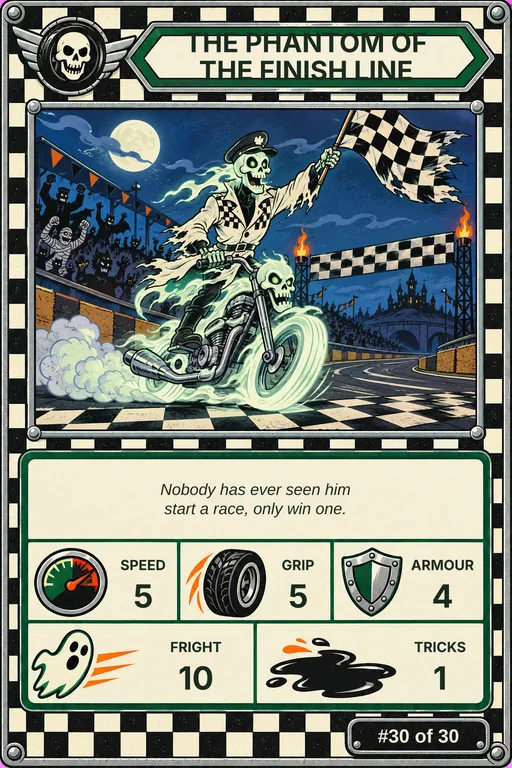
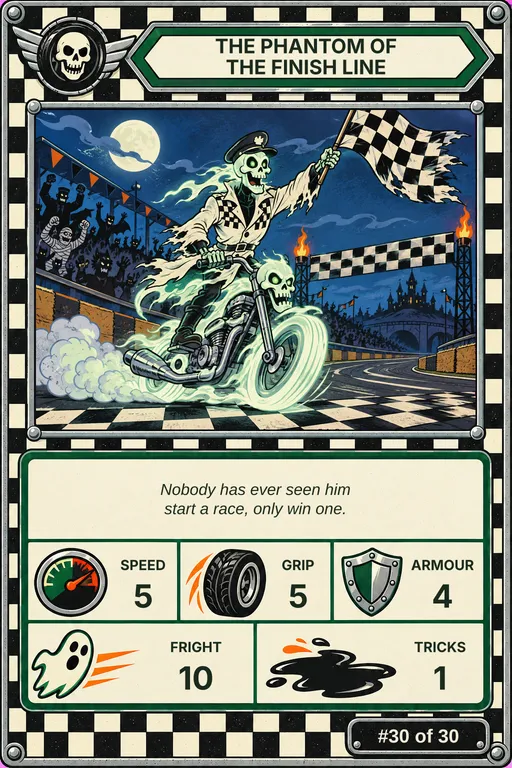
Add twoLineSize cap for two-line names; fix season 11 card 30 title
Claude-Session: https://claude.ai/code/session_01P13wKSiBmsany2R1dUMk1g

Changed region(s): [[0.375, 0.0312, 0.8438, 0.125]]

diff --git a/src/v2-compose-cards.ts b/src/v2-compose-cards.ts
@@ -65,6 +65,8 @@ type TextBox = {
   balance?: boolean;
   /** One-line text that would shrink below this size goes on two lines instead. Off when absent. */
   twoLinesBelow?: number;
+  /** The largest font size once text is on two lines via `twoLinesBelow`, so two lines still fit the box's height. Default `size`. */
+  twoLineSize?: number;
   /** Line spacing as a multiple of the font size. Default 1.2. */
   lineHeight?: number;
   /** Average character width as a multiple of the font size, used to fit text. Default 0.6; raise it for wide fonts. */
@@ -283,7 +285,7 @@ export function textSvg(box: TextBox, text: string): string {
   if (box.balance && lines.length === 2) lines = splitInTwo(text);
   if (!box.wrap && box.twoLinesBelow && size < box.twoLinesBelow) {
     lines = splitInTwo(text);
-    size = fit(Math.max(...lines.map((l) => l.length)));
+    size = Math.min(box.twoLineSize ?? box.size, fit(Math.max(...lines.map((l) => l.length))));
   }
   const lh = size * (box.lineHeight ?? 1.2);
   const top = box.y - ((lines.length - 1) * lh) / 2;

diff --git a/src/v2-compose-cards.test.ts b/src/v2-compose-cards.test.ts
@@ -13,6 +13,14 @@ test("textSvg only uses two lines when one line would be too small", () => {
   assert.equal(textSvg(box, "BIG BERTHA THE BARN-CRUSHER").match(/<tspan/g)?.length, 2);
 });
 
+test("textSvg caps two-line text at twoLineSize", () => {
+  const box = { x: 0, y: 0, size: 64, maxWidth: 440, font: "Arial", colour: "#000", charWidth: 0.75, twoLinesBelow: 30 };
+  const fontSize = (svg: string) => Number(svg.match(/font-size="([\d.]+)"/)?.[1]);
+  assert.ok(fontSize(textSvg(box, "BIG BERTHA THE BARN-CRUSHER")) > 40);
+  assert.equal(fontSize(textSvg({ ...box, twoLineSize: 40 }, "BIG BERTHA THE BARN-CRUSHER")), 40);
+  assert.equal(textSvg({ ...box, twoLineSize: 40 }, "MOLE MAULER"), textSvg(box, "MOLE MAULER"));
+});
+
 test("rulesSvg numbers each step and stacks it below the last", () => {
   const box = { x: 0, y: 100, size: 10, maxWidth: 100, font: "Arial", colour: "#000", wrap: true, charWidth: 1, lineHeight: 1 };
   const svg = rulesSvg({ title: "Rules", steps: ["one two three", "four"], layout: { title: box, step: box, gap: 5 } });

diff --git a/src/docs/v2-compose-cards.md b/src/docs/v2-compose-cards.md
@@ -102,6 +102,7 @@ Each text box has these fields. All sizes are in pixels on the 1024 × 1536 fram
 | `wrap` | `false` | Puts the text on more lines at `maxWidth`, and keeps the font size. |
 | `balance` | `false` | With `wrap`, makes two lines of text about the same length. |
 | `twoLinesBelow` | off | If one-line text would shrink below this size, puts it on two lines instead. |
+| `twoLineSize` | `size` | The largest font size for text that `twoLinesBelow` has put on two lines. Set it so that two lines fit the height of the box. |
 | `lineHeight` | `1.2` | The line spacing, as a multiple of the font size. |
 | `charWidth` | `0.6` | The average letter width, as a multiple of the font size. The script uses it to fit text, because it does not measure the text. Make it larger for wide fonts, or if text goes outside its box. |
 
